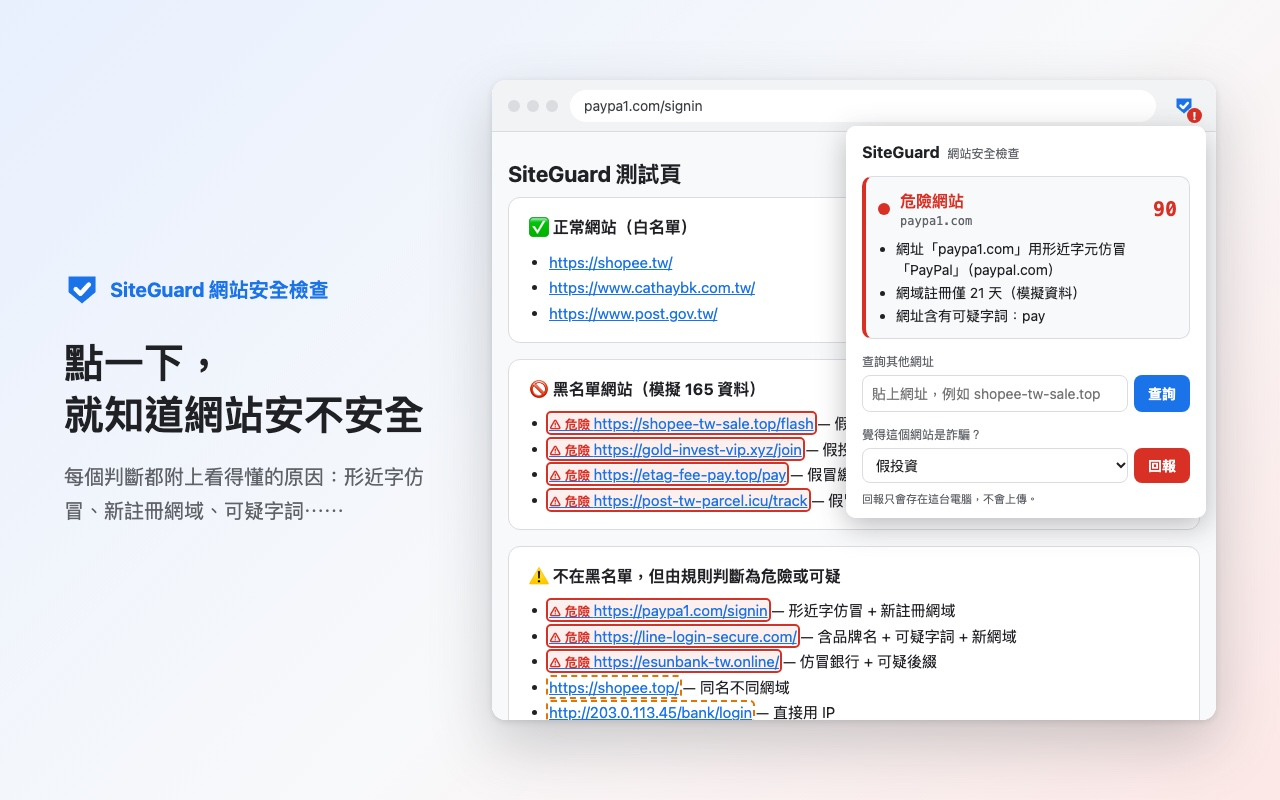
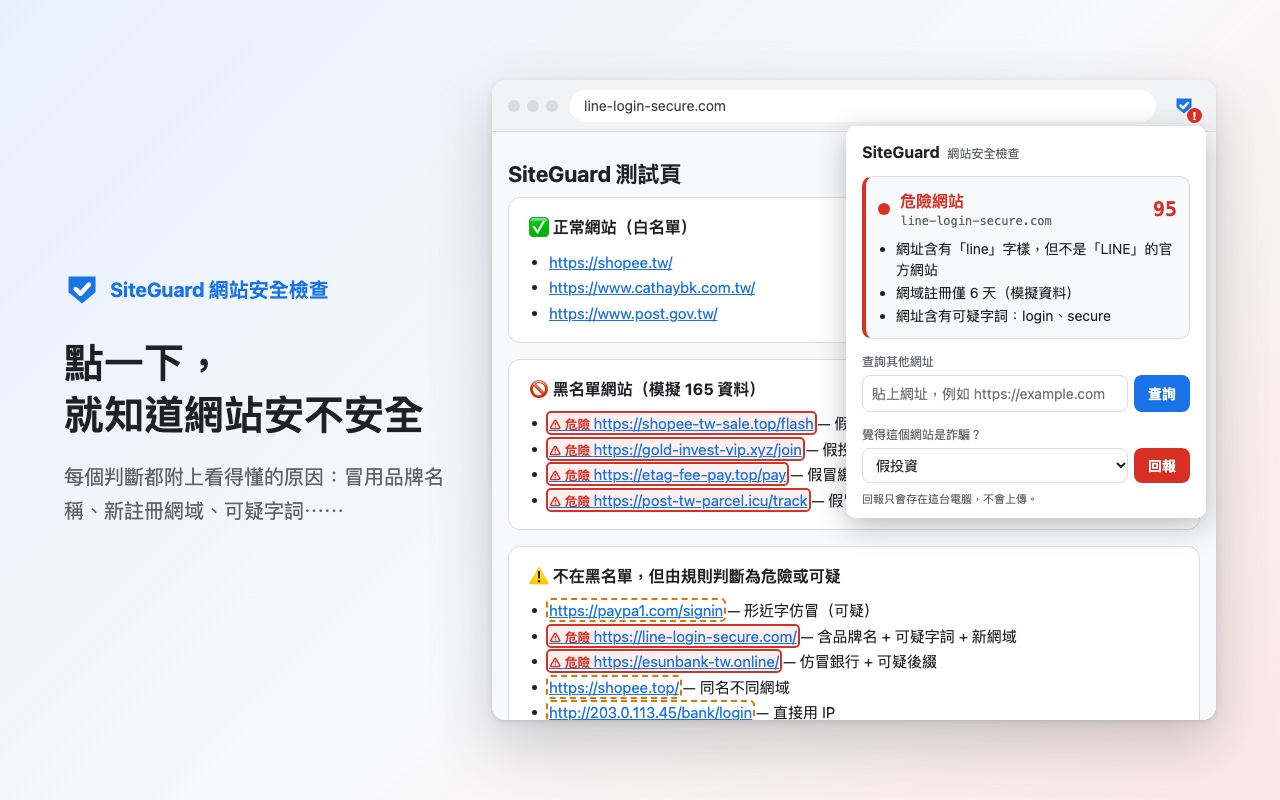
Clean up mock data and listing before store submission
- Remove fabricated domain age for paypa1.com (a real, brand-protected
  domain); only unregistered fictional domains may carry mock ages
- Use a neutral example in the popup input placeholder
- Stop running the content script on file:// pages
- Fill homepage and support URLs in the store listing
- Drop "POC" wording; README states the data is still mock
- Retake store screenshots

diff --git a/src/data/mock-data.js b/src/data/mock-data.js
@@ -1,5 +1,5 @@
 // ============================================================
-// 模擬資料（POC 用）
+// 模擬資料（尚未接上真實資料來源）
 // 黑名單與網域年齡皆為虛構範例，正式版應改為：
 //   - 165 反詐騙公開資料 / 自有情資，每日下載更新
 //   - RDAP 查詢真實網域註冊日期
@@ -19,12 +19,15 @@ export const BLOCKLIST = {
   'free-iphone-gift.buzz': { category: '假抽獎', source: '模擬使用者回報' },
 };
 
-/** 模擬網域註冊天數（正式版改查 RDAP）。 */
+/**
+ * 模擬網域註冊天數（正式版改查 RDAP）。
+ * 只能放「目前沒有人註冊」的虛構網域，避免對真實網域提供錯誤資訊
+ * （例如 paypa1.com 是真實存在、由品牌保護服務代管的網域，所以不列入）。
+ */
 export const DOMAIN_AGE_DAYS = {
   'shopee-tw-sale.top': 3,
   'gold-invest-vip.xyz': 12,
   'line-login-secure.com': 6,
-  'paypa1.com': 21,
   'esunbank-tw.online': 9,
   'new-coffee-shop.com': 15,
 };

diff --git a/test/risk.test.js b/test/risk.test.js
@@ -18,12 +18,13 @@ test('黑名單網站判定為危險並帶分類', () => {
 });
 
 test('仿冒網址由規則判定為危險', () => {
-  for (const u of ['https://paypa1.com/signin', 'https://line-login-secure.com/', 'https://esunbank-tw.online/']) {
+  for (const u of ['https://line-login-secure.com/', 'https://esunbank-tw.online/']) {
     assert.equal(level(u), 'danger', u);
   }
 });
 
 test('可疑但未達危險', () => {
+  assert.equal(level('https://paypa1.com/signin'), 'suspicious');
   assert.equal(level('https://shopee.top/'), 'suspicious');
   assert.equal(level('http://203.0.113.45/bank/login'), 'suspicious');
   assert.equal(level('https://www.cathaybk.com.tw@evil-site.example/'), 'suspicious');

diff --git a/demo/index.html b/demo/index.html
@@ -49,7 +49,7 @@
   <section>
     <h2>⚠ 不在黑名單，但由規則判斷為危險或可疑</h2>
     <ul>
-      <li><a href="https://paypa1.com/signin">https://paypa1.com/signin</a> — 形近字仿冒 + 新註冊網域</li>
+      <li><a href="https://paypa1.com/signin">https://paypa1.com/signin</a> — 形近字仿冒（可疑）</li>
       <li><a href="https://line-login-secure.com/">https://line-login-secure.com/</a> — 含品牌名 + 可疑字詞 + 新網域</li>
       <li><a href="https://esunbank-tw.online/">https://esunbank-tw.online/</a> — 仿冒銀行 + 可疑後綴</li>
       <li><a href="https://shopee.top/">https://shopee.top/</a> — 同名不同網域</li>

diff --git a/store/screenshots/compose.html b/store/screenshots/compose.html
@@ -75,11 +75,11 @@
     },
     3: {
       title: '點一下，<br>就知道網站安不安全',
-      text: '每個判斷都附上看得懂的原因：形近字仿冒、新註冊網域、可疑字詞⋯⋯',
-      address: 'paypa1.com/signin',
+      text: '每個判斷都附上看得懂的原因：冒用品牌名稱、新註冊網域、可疑字詞⋯⋯',
+      address: 'line-login-secure.com',
       badge: ['!', '#d93025'],
       frame: '/demo/index.html',
-      popup: 'https://paypa1.com/signin',
+      popup: 'https://line-login-secure.com/',
     },
   };
 

diff --git a/src/popup/popup.html b/src/popup/popup.html
@@ -27,7 +27,7 @@
   <form id="check-form" class="check">
     <label for="check-input">查詢其他網址</label>
     <div class="row">
-      <input id="check-input" type="text" placeholder="貼上網址，例如 shopee-tw-sale.top" autocomplete="off" spellcheck="false">
+      <input id="check-input" type="text" placeholder="貼上網址，例如 https://example.com" autocomplete="off" spellcheck="false">
       <button type="submit">查詢</button>
     </div>
   </form>

diff --git a/src/lib/risk.js b/src/lib/risk.js
@@ -15,7 +15,7 @@ export const LEVELS = {
 const DANGER_SCORE = 70;
 const SUSPICIOUS_SCORE = 35;
 
-// 常見的二層公眾後綴（POC 簡化版；正式版改用 Public Suffix List）
+// 常見的二層公眾後綴（簡化版；正式版改用 Public Suffix List）
 const MULTI_PART_SUFFIXES = new Set([
   'com.tw', 'net.tw', 'org.tw', 'gov.tw', 'edu.tw', 'idv.tw', 'co.uk', 'co.jp', 'com.cn', 'com.hk', 'com.sg', 'com.au',
 ]);

diff --git a/README.md b/README.md
@@ -1,7 +1,9 @@
-# SiteGuard 網站安全檢查（Chrome 擴充功能 POC）
+# SiteGuard 網站安全檢查（Chrome 擴充功能）
 
-瀏覽器版的 Whoscall：開網站之前先告訴你，這個網站可能是詐騙、仿冒，或其他可疑網站。
-這個 POC 完全在瀏覽器裡執行，使用模擬資料，沒有後端，也不會上傳任何資料。
+開網站之前先告訴你，這個網站可能是詐騙、仿冒，或其他可疑網站。
+所有判斷都在瀏覽器裡完成，沒有後端，也不會上傳任何資料。
+
+> **目前狀態**：詐騙網站名單與網域年齡仍是**模擬資料**（虛構網域），尚未接上真實資料來源。
 
 ## 功能
 
@@ -38,11 +40,10 @@
 1. 在 Chrome 開啟 `chrome://extensions`。
 2. 開啟右上角的「**開發人員模式**」。
 3. 按「**載入未封裝項目**」，選擇這個 `site-guard` 資料夾。
-4. （選用）在擴充功能的詳細資料頁開啟「**允許存取檔案網址**」，就能直接用檔案方式開啟測試頁。
 
 ## 試玩 Demo
 
-開啟 `demo/index.html`。可以直接用檔案方式開啟（需要上面的第 4 步），或透過本機伺服器：
+擴充功能只在 `http://` 與 `https://` 網頁上運作，所以測試頁要透過本機伺服器開啟：
 
 ```bash
 ruby -run -e httpd . -p 8765
